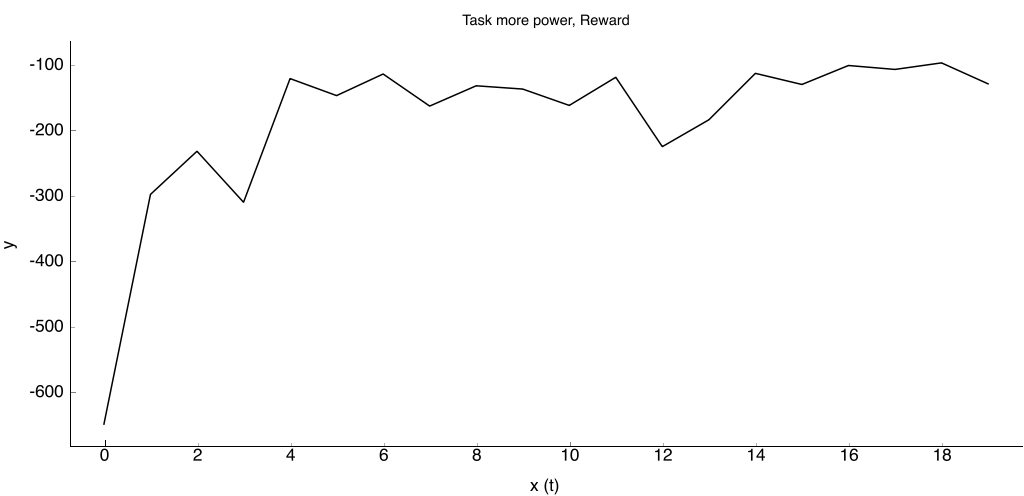
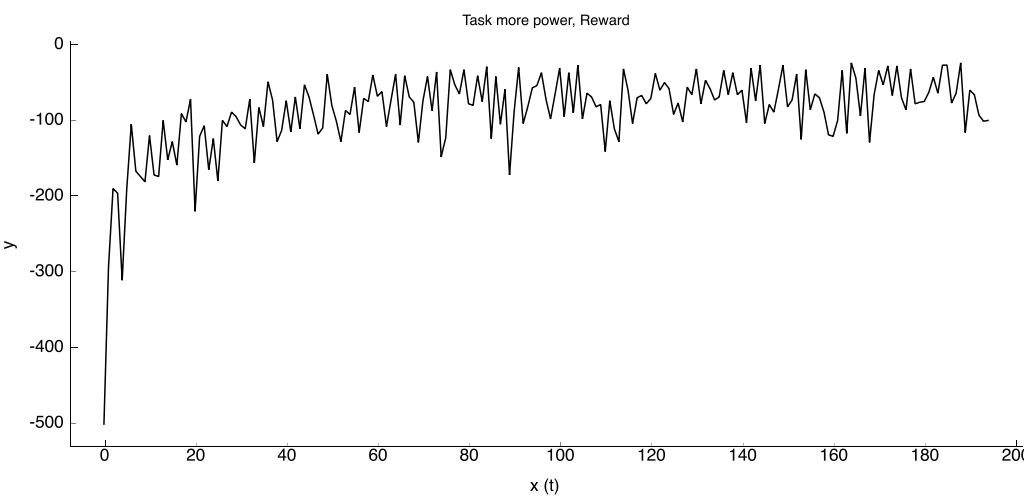
fixed bugs, added training for combination

diff --git a/main.py b/main.py
@@ -2,56 +2,75 @@ import gym
 import base_rl
 import env_interaction
 import tasks
-import time
+import ensemble_rl
 
 ENV = 'MountainCar-v0'
 VERBOSE = False
 EXPLORATION_PROBA = 0.2
-MAX_ITER = 5000
-NUM_TRIALS = 20
+MAX_ITER = 100
+NUM_TRIALS = 1000
 RELOAD_WEIGHTS = False
 DISCOUNT = 1
 
 if __name__ == "__main__":
     env = gym.make(ENV)
+
+    # 1. train each task separately
     with open("results.txt", "a") as f:
-        f.write("#"*10 + "\n")
-    for name, param in tasks.TASKS.iteritems():
-        print("Task {}".format(name))
-        file_name = param["file_name"]
-        slope = param["slope"]
-        reward_modes = param["reward_modes"]
-        max_speed = param["max_speed"]
-        power = param["power"]
-
-        env.set_task(reward_modes, slope, max_speed, power)
-
-        rl = base_rl.rl_train(
-            name, 
+        f.write("#"*20 + "\n")
+    for name, param in tasks.SOURCES.iteritems():
+        base_rl.train_task(
             env, 
-            env_interaction.simpleFeatures(env), 
-            num_trials=NUM_TRIALS, 
-            max_iter=MAX_ITER,
-            filename=file_name, 
-            verbose=VERBOSE,
-            reload_weights=RELOAD_WEIGHTS, 
-            discount=DISCOUNT, 
-            explorationProb=EXPLORATION_PROBA)
-
-        # rl = base_rl.rl_load(
-        #     name,
-        #     file_name, 
-        #     env, 
-        #     env_interaction.simpleFeatures(env),
-        #     discount=DISCOUNT)
+            name, 
+            param, 
+            NUM_TRIALS, 
+            MAX_ITER, 
+            VERBOSE, 
+            RELOAD_WEIGHTS, 
+            DISCOUNT, 
+            EXPLORATION_PROBA)
 
         # env_interaction.plotQ(env, rl.evalQ)
         # env_interaction.play(env, rl.getPolicy())
 
-        evaluation = env_interaction.policy_evaluation(
+    # 2. learn combination of tasks for full
+    sources = []
+    for name, param in tasks.SOURCES.iteritems():
+        sources += [base_rl.rl_load(
+            name,
+            param["file_name"], 
             env, 
-            rl.getPolicy(), 
-            discount=DISCOUNT)
+            env_interaction.simpleFeatures(env),
+            discount=DISCOUNT
+            )]
 
-        with open("results.txt", "a") as f:
-            f.write("{} {}\n".format(name, evaluation))
+
+    param = tasks.TARGET["full"]
+    file_name = param["file_name"]
+    slope = param["slope"]
+    reward_modes = param["reward_modes"]
+    max_speed = param["max_speed"]
+    power = param["power"]
+
+    env.set_task(reward_modes, slope, max_speed, power)
+
+    rl_ens = ensemble_rl.target_train(
+        env, 
+        "full", 
+        sources, 
+        num_trials=1, 
+        max_iter=1000, 
+        filename="weights.p", 
+        verbose = False, 
+        reload_weights=True, 
+        discount=1, 
+        explorationProb=0.1
+        )
+
+    evaluation = env_interaction.policy_evaluation(
+        env, 
+        rl_ens.getPolicy(), 
+        discount=DISCOUNT)
+
+
+

diff --git a/ensemble_rl.py b/ensemble_rl.py
@@ -7,27 +7,46 @@ from collections import defaultdict
 from copy import deepcopy
 from streamplot import PlotManager
 from base_rl import SimpleQLearning
+import numpy as np
 
 class EnsembleQLearning(SimpleQLearning):
-    def __init__(self, sources, actions, discount, explorationProb = 0.2):
+    def __init__(self, name, sources, actions, discount, explorationProb = 0.2):
         """
         `actions` is the list of possible actions at any state
         `sources` a list of source SimpleQLearning
         """
+        self.name = name
         self.sources = sources
         self.n_sources = len(sources)
         self.actions = actions
         self.discount = discount
         self.explorationProb = explorationProb
         self.numIters = 0
-        self.plt_mgr = PlotManager(title="reward")
+        self.coefs = [1./self.n_sources] * self.n_sources
+
+    def preliminaryCheck(self, state, action):
+        sources = self.sources
+        index_to_remove = []
+        for i in xrange(self.n_sources):
+            if sources[i].evalQ(state, action) > 10**2:
+                print("ERROR : task {} has Q value too large".format(sources[i].name))
+                index_to_remove += [(i, sources[i].name)]
+        for i, name in index_to_remove:
+            print("Removing task {} from sources".format(name))
+            del sources[i]
+
+        self.n_sources -= len(index_to_remove)
         self.coefs = [1./self.n_sources] * self.n_sources
 
     def evalQ(self, state, action):
         """
         Evaluate Q-function for a given (`state`, `action`)
         """
+        sources = self.sources
         return sum(self.coefs[i] * sources[i].evalQ(state, action) for i in xrange(self.n_sources))
+
+    def getStepSize(self):
+        return 0.000001
 
     def updateQ(self, state, action, reward, newState):
         if newState is None:
@@ -41,5 +60,36 @@ class EnsembleQLearning(SimpleQLearning):
             v_opt = 0.
         target = reward + self.discount * v_opt
 
+        print self.coefs
         for i in xrange(self.n_sources):
             self.coefs[i] = self.coefs[i] - self.getStepSize() * (pred - target) * self.sources[i].evalQ(state, action)
+
+    def dump(self, file_name):
+        with open(file_name, "wb") as fout:
+            pickle.dump(self.coefs, fout)
+
+####################################################
+
+def target_train(env, name, sources, num_trials=1, max_iter=10, filename="weights.p", verbose=False, reload_weights=True, discount=1, explorationProb=0.1):
+    weights = filename if reload_weights else None
+    actions = range(env.action_space.n)
+
+    rl_ens = EnsembleQLearning(
+        name, 
+        sources, 
+        range(env.action_space.n), 
+        discount
+        )
+
+    rl_ens.preliminaryCheck(np.array([-0.5, 0]),0)
+
+    rl_ens.train(
+        env, 
+        num_trials=num_trials, 
+        max_iter=max_iter, 
+        verbose=verbose
+        )
+
+    rl_ens.dump("weights/" + filename)
+
+    return rl_ens

diff --git a/base_rl.py b/base_rl.py
@@ -6,6 +6,7 @@ import random, math, pickle
 from collections import defaultdict
 from copy import deepcopy
 from streamplot import PlotManager
+import env_interaction
 
 class SimpleQLearning:
     def __init__(self, name, actions, discount, featureExtractor, explorationProb = 0.2, weights = None):
@@ -101,7 +102,7 @@ class SimpleQLearning:
         for k,v in phi:
             self.weights[k] = self.weights[k] - self.getStepSize() * (pred - target) * v
 
-    def train(self, env, num_trials = 100, max_iter = 1000, verbose=False):
+    def train(self, env, num_trials=100, max_iter=1000, verbose=False):
         """
         Learn the weights by running simulations
         """
@@ -167,13 +168,51 @@ def rl_train(name, env, featureExtractor, num_trials=1, max_iter=10000, filename
 
 def rl_load(name, filename, env, featureExtractor, discount=1):
     actions = range(env.action_space.n)
+
     rl = SimpleQLearning(
         name, 
         actions, 
         discount=discount, 
         featureExtractor=featureExtractor, 
         explorationProb=0., 
-        weights=filename
+        weights="weights/" + filename
         )
      
     return rl
+
+def train_task(env, name, param, num_trials, max_iter, verbose, reload_weights, discount, explorationProb):
+    """
+    perform task training
+
+    saves plot of performance during training in /plots
+    saves weights in /weights
+    writes policy evaluation in file result.txt
+    """
+    print("Task {}".format(name))
+    file_name = param["file_name"]
+    slope = param["slope"]
+    reward_modes = param["reward_modes"]
+    max_speed = param["max_speed"]
+    power = param["power"]
+
+    env.set_task(reward_modes, slope, max_speed, power)
+
+    rl = rl_train(
+        name, 
+        env, 
+        env_interaction.simpleFeatures(env), 
+        num_trials=num_trials, 
+        max_iter=max_iter,
+        filename=file_name, 
+        verbose=verbose,
+        reload_weights=reload_weights, 
+        discount=discount, 
+        explorationProb=explorationProb)
+
+    evaluation = env_interaction.policy_evaluation(
+        env, 
+        rl.getPolicy(), 
+        discount=discount)
+
+    with open("results.txt", "a") as f:
+        f.write("{} {}\n".format(name, evaluation))

diff --git a/tasks.py b/tasks.py
@@ -1,6 +1,6 @@
 # data of tasks
 
-TASKS = {
+SOURCES = {
 	"standard" : {
 	    "file_name" : "standard.p",
 	    "reward_modes" : [
@@ -71,34 +71,39 @@ TASKS = {
 	    "power" :0.001,
 	},
 
-	"center" : {
-	    "file_name" : "center.p",
-	    "reward_modes" : [
-	            ("time", 0),
-	            ("energy", 0),
-	            ("distance", 0),
-	            ("center", 1),
-	            ("height", 0)
-	            ],
-	    "slope": 0.0025,
-	    "max_speed": 0.07,
-	    "power" :0.001,
-	},
+	# "center" : {
+	#     "file_name" : "center.p",
+	#     "reward_modes" : [
+	#             ("time", 0),
+	#             ("energy", 0),
+	#             ("distance", 0),
+	#             ("center", 1),
+	#             ("height", 0)
+	#             ],
+	#     "slope": 0.0025,
+	#     "max_speed": 0.07,
+	#     "power" :0.001,
+	# },
 
-	"height" : {
-	    "file_name" : "height.p",
-	    "reward_modes" : [
-	            ("time", 0),
-	            ("energy", 0),
-	            ("distance", 0),
-	            ("center", 0),
-	            ("height", 1)
-	            ],
-	    "slope": 0.0025,
-	    "max_speed": 0.07,
-	    "power" :0.001,
-	},
+	# "height" : {
+	#     "file_name" : "height.p",
+	#     "reward_modes" : [
+	#             ("time", 0),
+	#             ("energy", 0),
+	#             ("distance", 0),
+	#             ("center", 0),
+	#             ("height", 1)
+	#             ],
+	#     "slope": 0.0025,
+	#     "max_speed": 0.07,
+	#     "power" :0.001,
+	# },
 
+	
+}
+
+
+TARGET = {
 	"full" : {
 	    "file_name" : "full.p",
 	    "reward_modes" : [
